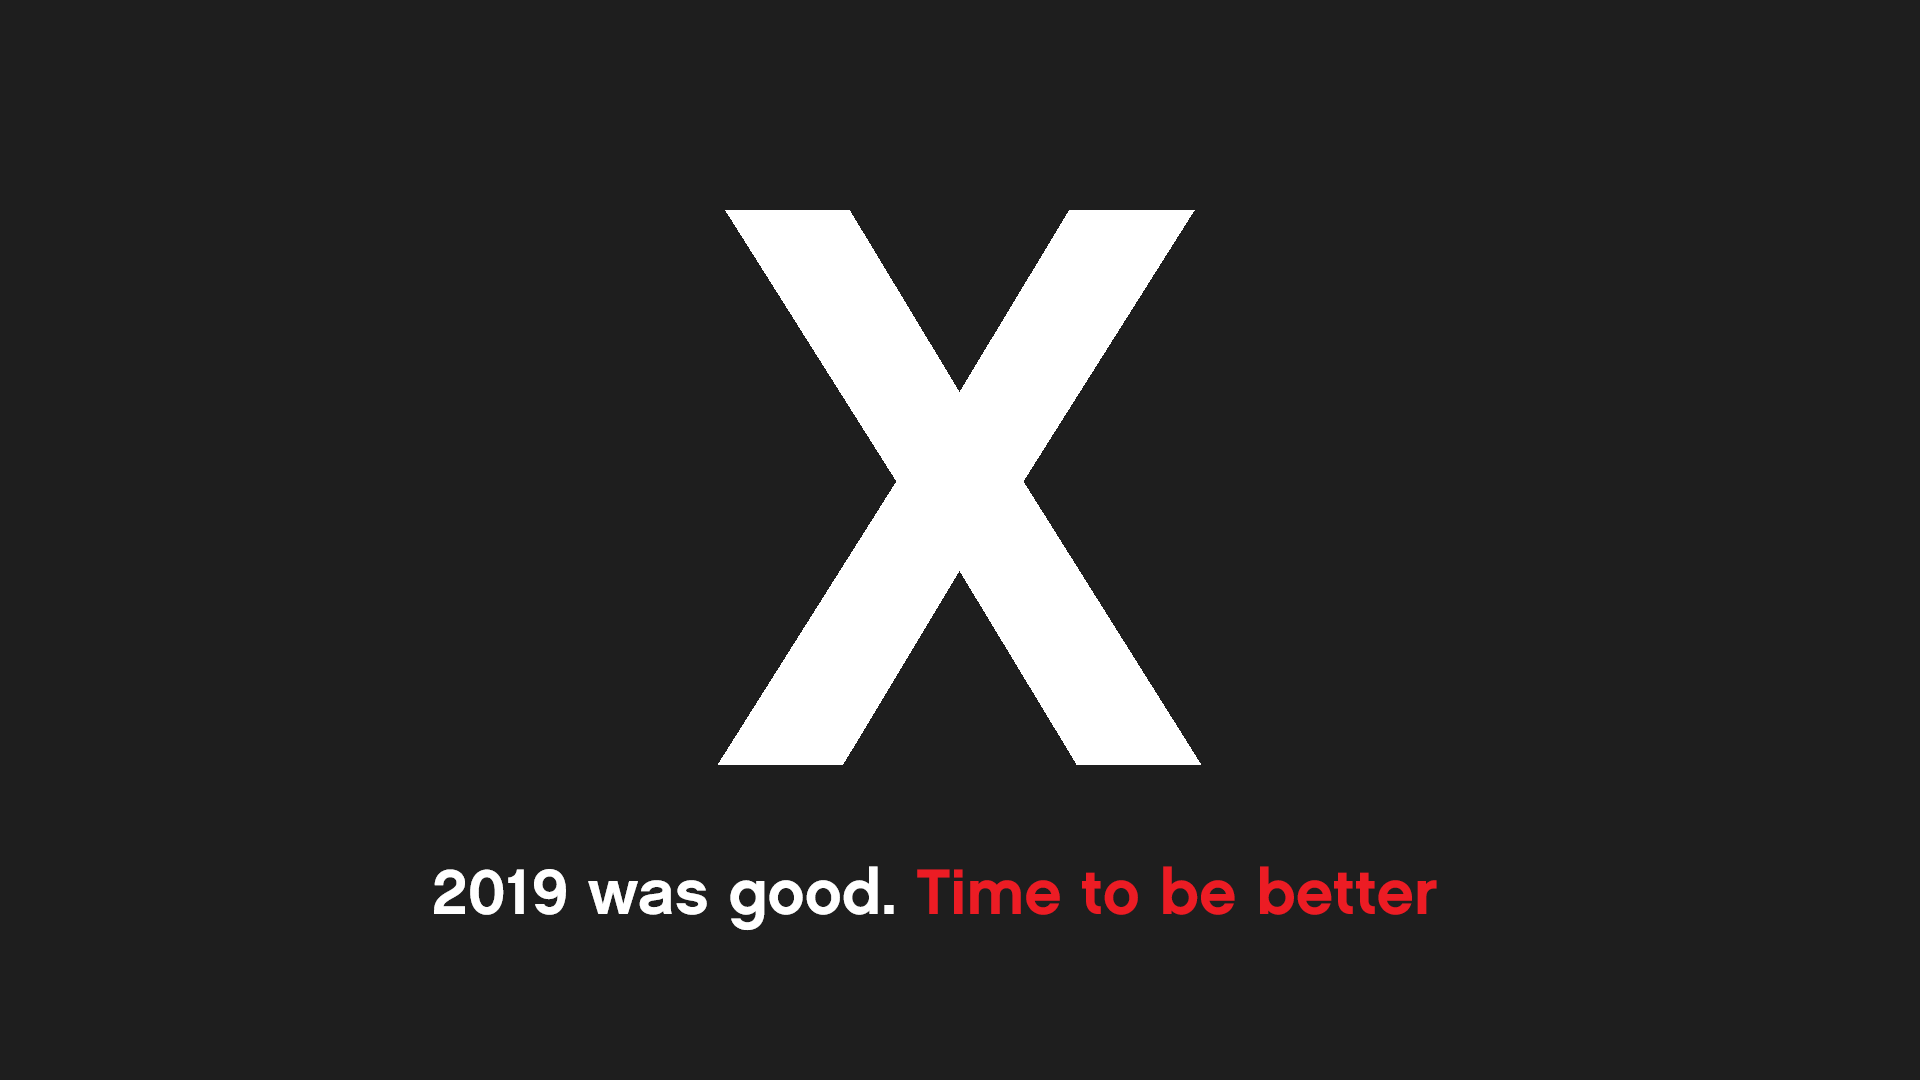
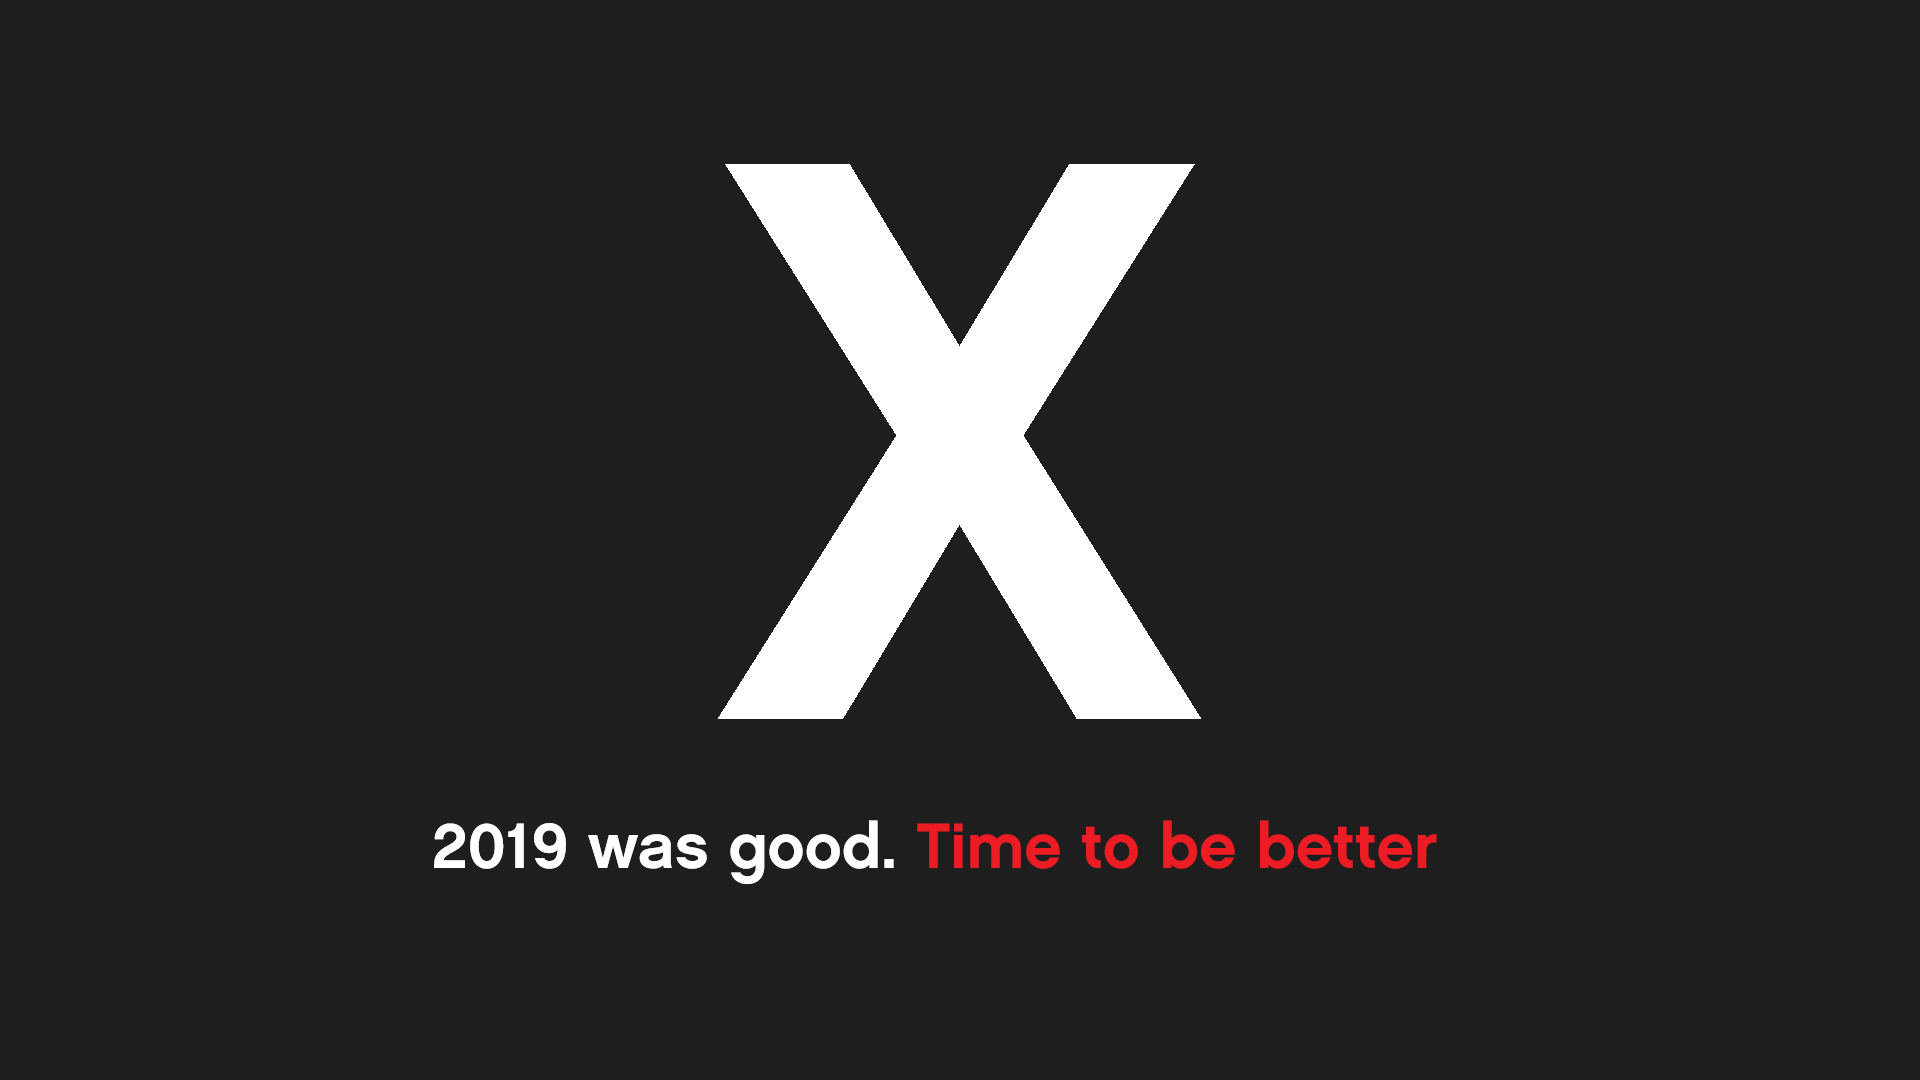
Made Animation Responsive

Changed region(s): [[0.375, 0.1528, 0.625, 0.7333], [0.2188, 0.7639, 0.75, 0.8556]]

diff --git a/index.html b/index.html
@@ -3,26 +3,35 @@
     <head>
         <title>TEDxREVA University Home</title>
         <meta name="viewport" content="width=device-width, initial-scale=1">
+        <link href="https://fluentdesignforweb.github.io/Icons/css/fluent-icons.css" rel="stylesheet" type="text/css">
+        <link href="https://fluentdesignforweb.github.io/normalize.css" rel="stylesheet" type="text/css">
         <link href="https://fluentdesignforweb.github.io/fluent.css" type="text/css" rel="stylesheet">
         <link href="./extra.css" type="text/css" rel="stylesheet">
         <script src="https://fluentdesignforweb.github.io/fluent.js"></script>
     </head>
 
     <body class="primary_inverted">
-        <div class="fullscreen">
-            <div class="column large12 pivot_container primary_inverted">
-                <button class=" primary_inverted small left"><span style="color: red">TEDx</span>REVAUniversity</button>
-                <button class=" primary_inverted small right">Schedule</button>
-                <button class=" primary_inverted small right">Partners</button>
-                <a href="speaker/speaker1.html"><button class=" primary_inverted small right">Speakers</button></a>
-                <button class=" primary_inverted small right">About</button>
-                <button class=" primary_inverted small right">Home</button>
-            </div>
+        <div class="column large12 medium12 small0 pivot_container primary_inverted">
+            <button class=" primary_inverted small left"><span style="color: red">TEDx</span>REVAUniversity</button>
+            <button class=" primary_inverted small right">Schedule</button>
+            <button class=" primary_inverted small right">Partners</button>
+            <a href="speaker/speaker1.html"><button class=" primary_inverted small right">Speakers</button></a>
+            <button class=" primary_inverted small right">About</button>
+            <button class=" primary_inverted small right">Home</button>
         </div>
+        
+        <button class="icon primary_red zi2 large0 medium0 right" style="position: sticky; margin: 10px; top: 5px;">
+            <i aria-hidden="false" class="ms-Icon ms-Icon--GlobalNavButton"></i>
+        </button>
+        
+        
+        <br><br><br><br>
         <div class="grad">
-            <div class="bigx">
-            </div>
+            <img src="./bigx.png" class="small0">
+            <img src="./bigxphone.png" class="large0 medium0 small12">
         </div>
+
+
 <!--
             <div class="page_container center">
                 <div class="column large9 small12 medium9 center">
@@ -42,8 +51,10 @@
                 <br><br><br><br>
             </div>
 -->
-    <div class="fullscreen primary_white">
-        <br><br><br><br><br><br>
+
+
+        <div class="primary_white">
+            <br><br><br><br><br><br>
             <div class="page_container ta_center">
                 <h1>About</h1><br><br>
                     <div class="column large6 medium12 small12 zi2 left" style="min-height: 400px; padding: 50px">

diff --git a/extra.css b/extra.css
@@ -4,15 +4,15 @@ body{
 }
 
 .grad{
-    background: linear-gradient(45deg, red, purple, pink);
+    background: linear-gradient(30deg, red 15%, pink 40%, purple 70%, red 100%);
     background-size: 400%;
     animation: gradientBG 10s ease-in-out infinite;
 }
 
 @keyframes gradientBG {
 	0% {
-		background-position: 0% 20%;
-	}
+        background-position: 0% 20%;
+    }
 	50% {
         background-position: 100% 50%;
 	}
@@ -23,10 +23,9 @@ body{
 
 
 .bigx{
-    z-index: 1; background: url(bigx.png); height: 1000px;
-    opacity: 1;
     animation: bigx 2s ease-in-out;
 }
+
 
 @keyframes bigx{
     0% {
